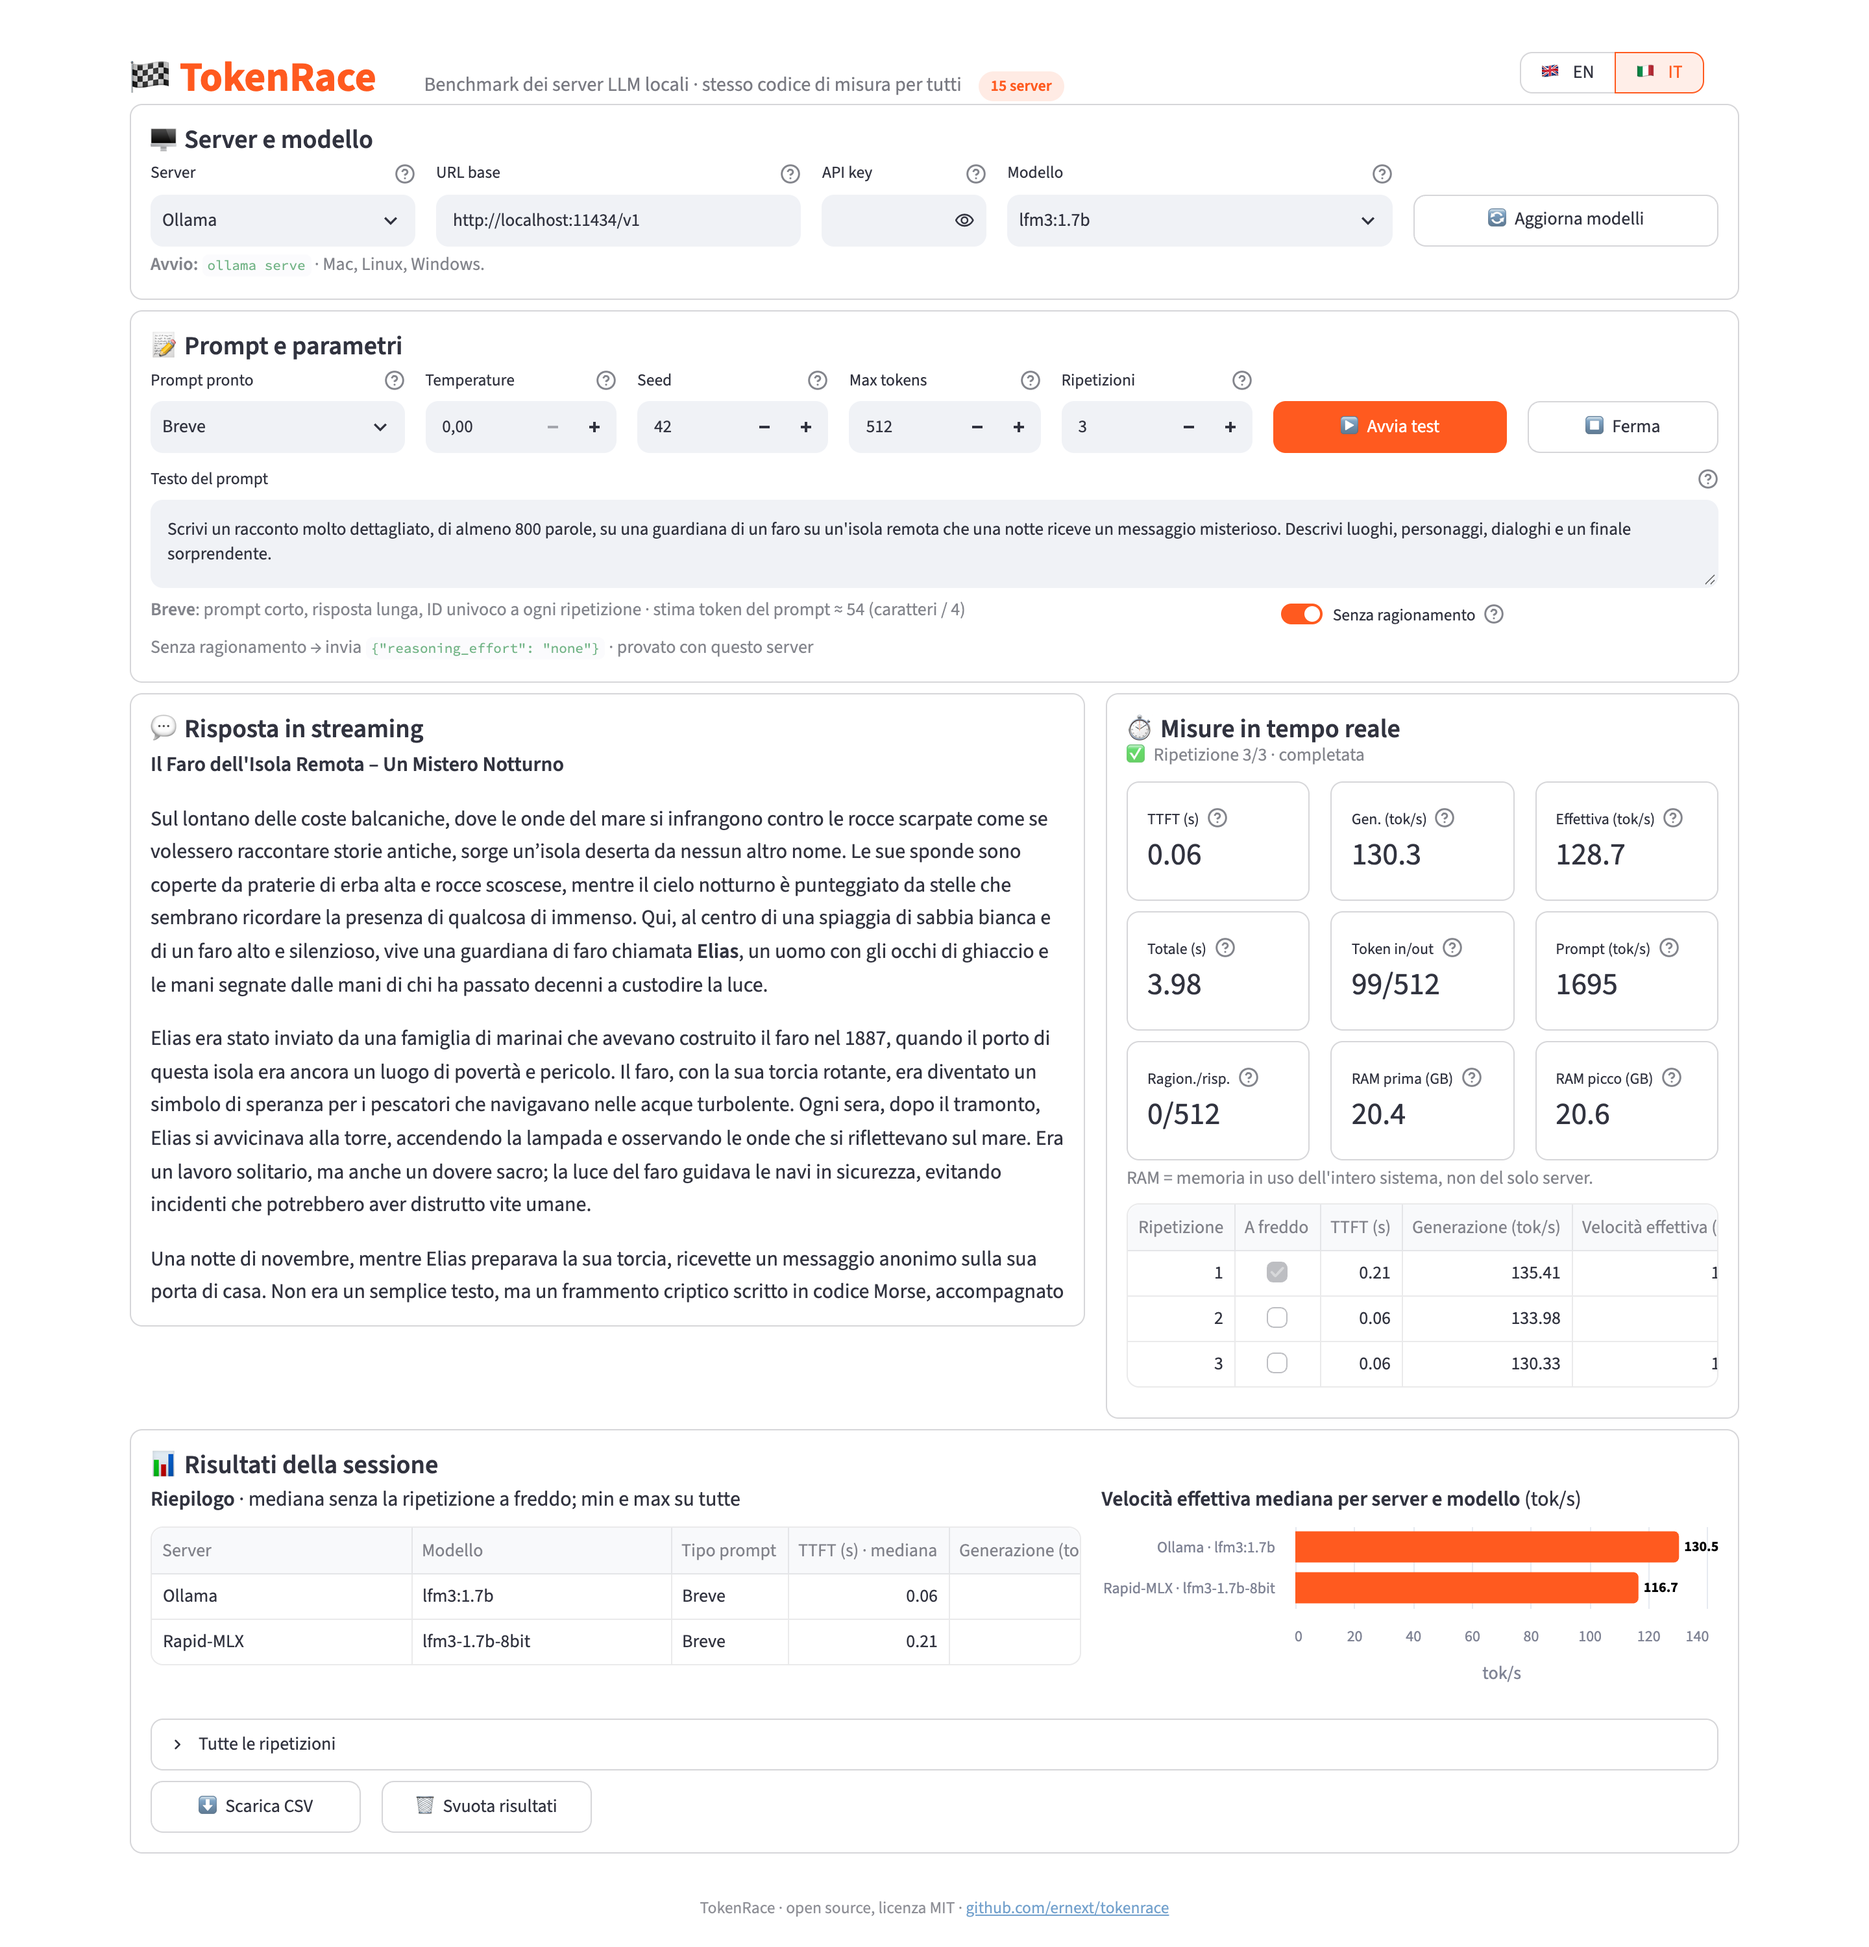
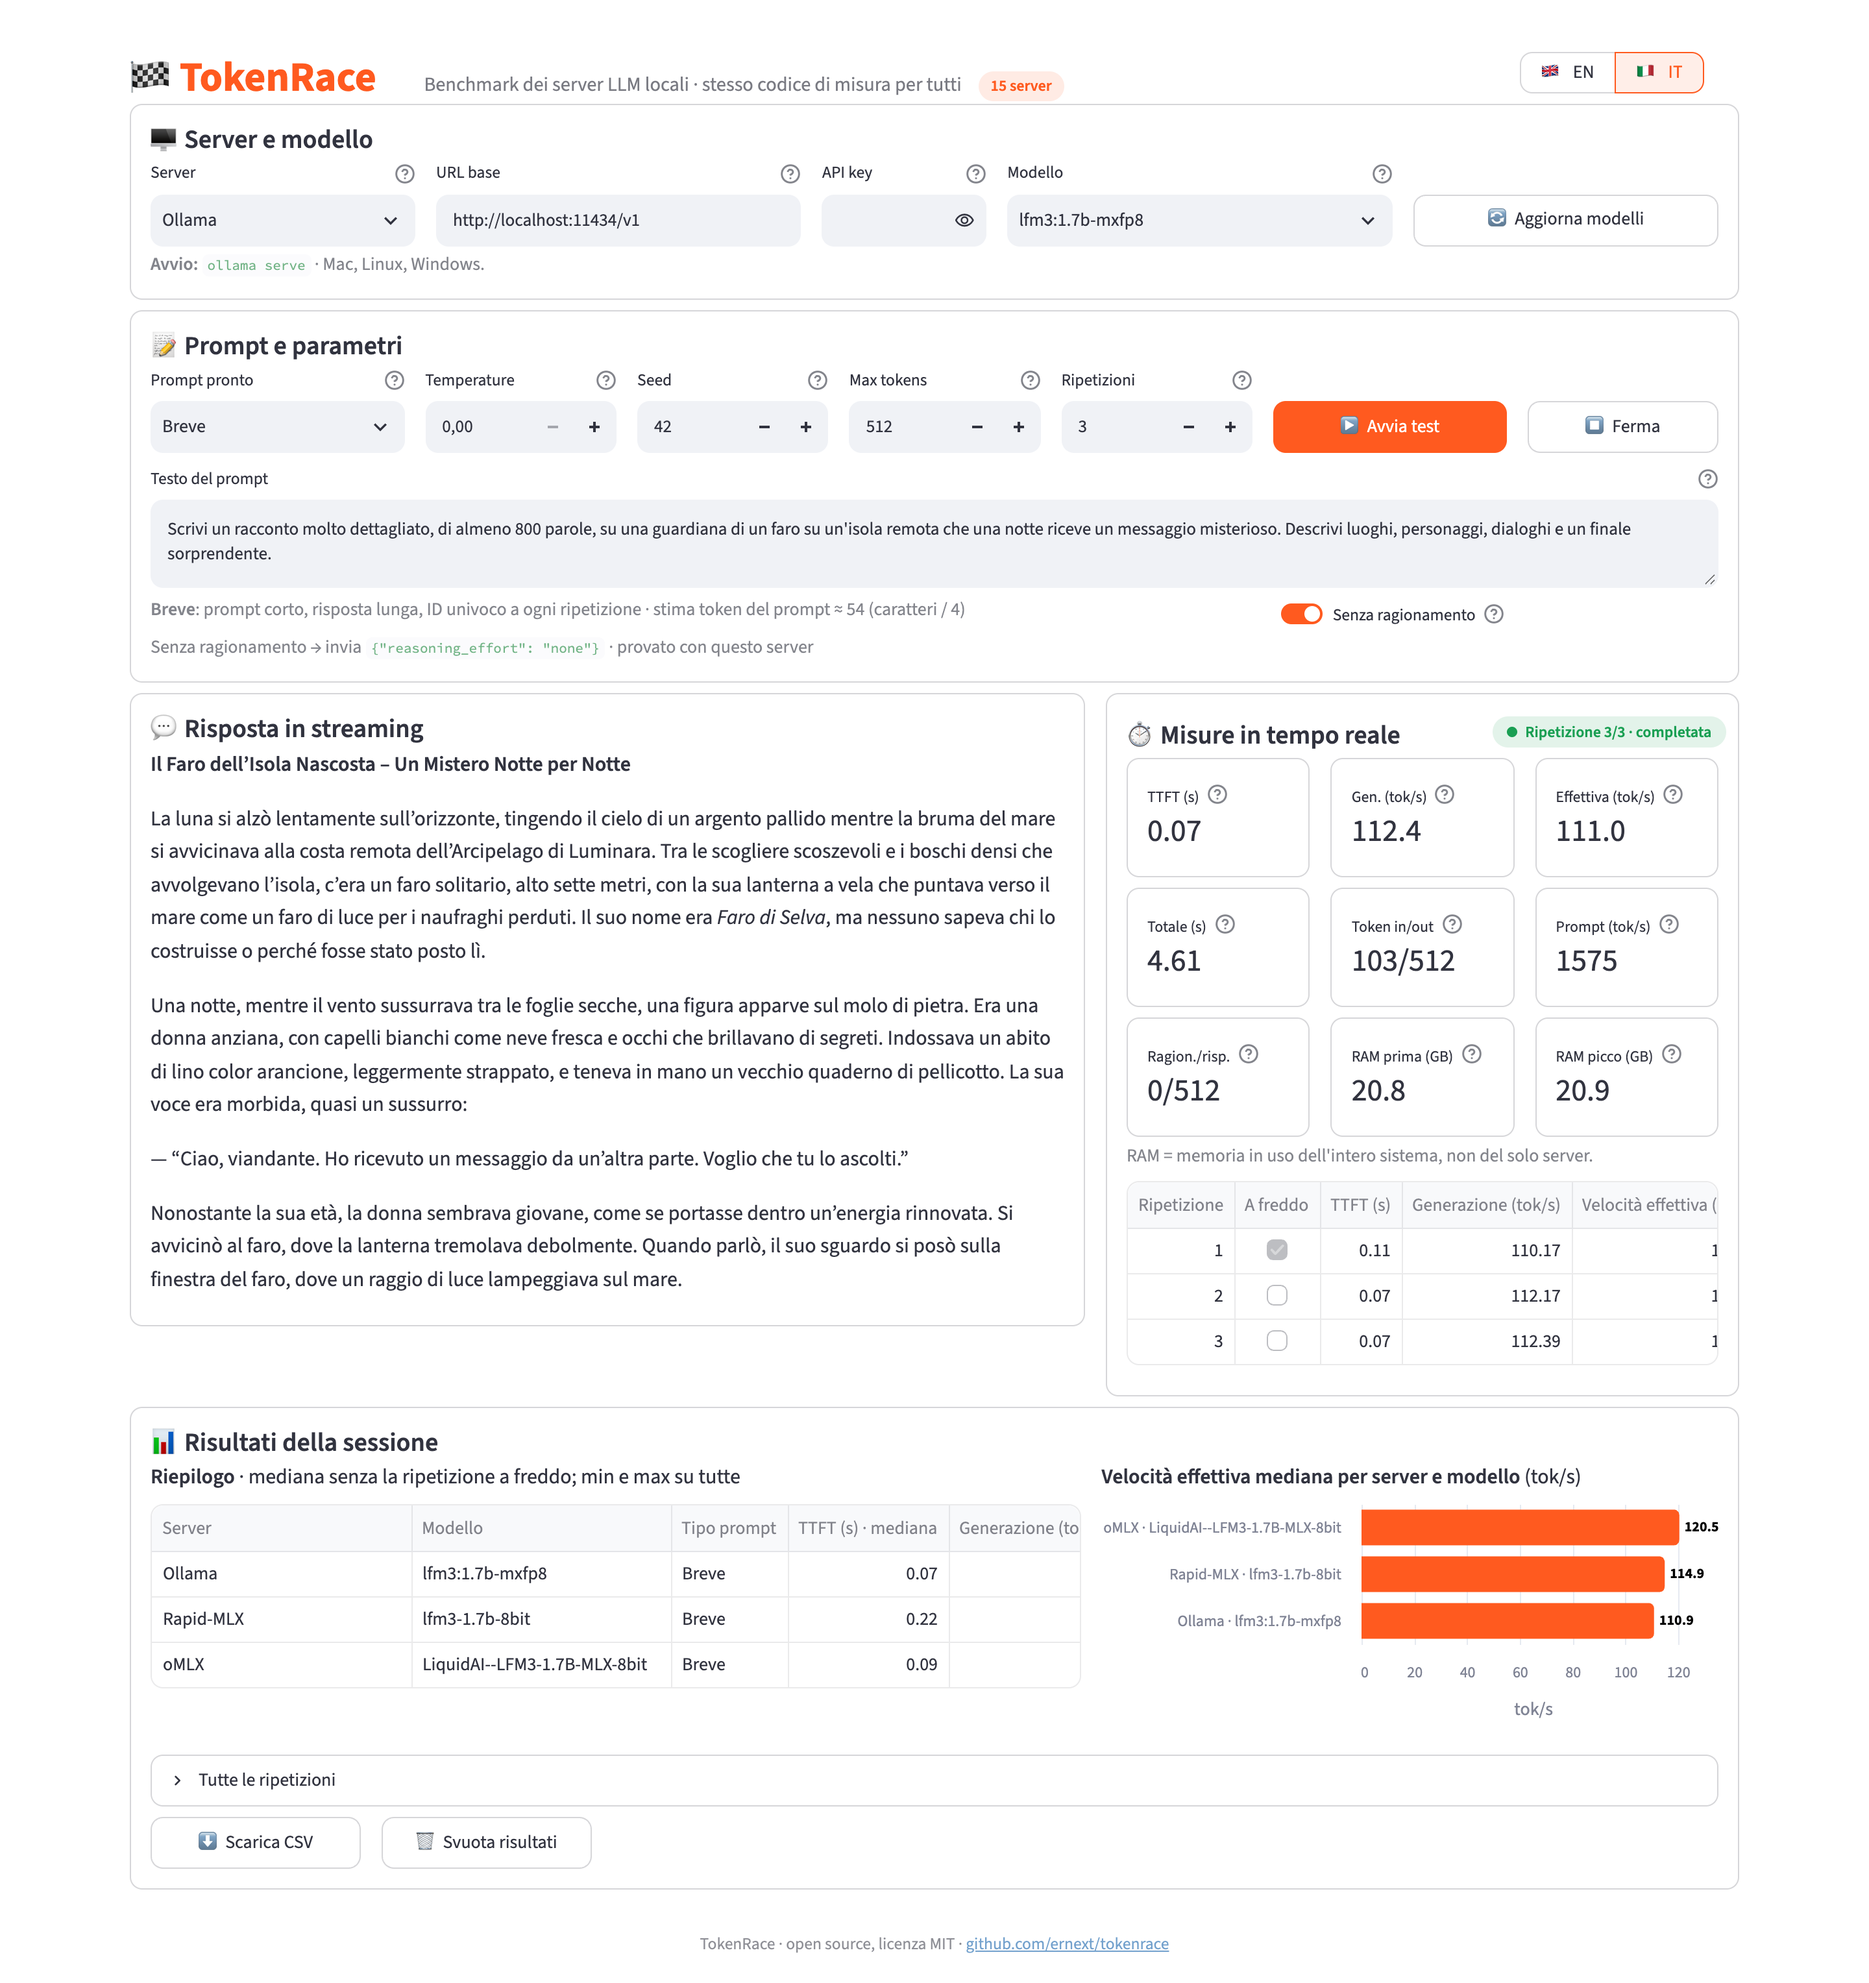
Stato della ripetizione in alto a destra, oMLX provato, screenshot con tre server
- Etichetta dello stato (in corso / completata) nell'intestazione del riquadro delle misure
- oMLX: "senza ragionamento" con chat_template_kwargs verificato
- Screenshot e didascalie: LFM3 1.7B a 8 bit su Rapid-MLX, oMLX e Ollama

diff --git a/assets/style.css b/assets/style.css
@@ -23,3 +23,14 @@ h5 {margin: 0 0 0.6rem 0 !important; padding: 0 !important;}
 
 /* Piè di pagina */
 .tr-footer {text-align: center; opacity: 0.55; font-size: 0.8rem; margin-top: 1.5rem;}
+
+/* Stato della ripetizione, in alto a destra del riquadro delle misure */
+.tr-status-wrap {text-align: right; margin-bottom: 1rem;}
+.tr-status {display: inline-flex; align-items: center; gap: 0.4rem; padding: 0.15rem 0.7rem;
+            border-radius: 999px; font-size: 0.75rem; font-weight: 600; white-space: nowrap;}
+.tr-dot {width: 0.5rem; height: 0.5rem; border-radius: 50%; background: currentColor;}
+.tr-status-running {color: var(--tr-primary);
+                    background: color-mix(in srgb, var(--tr-primary) 12%, transparent);}
+.tr-status-running .tr-dot {animation: tr-pulse 1s ease-in-out infinite;}
+.tr-status-done {color: #1a9f53; background: color-mix(in srgb, #1a9f53 12%, transparent);}
+@keyframes tr-pulse {0%, 100% {opacity: 1;} 50% {opacity: 0.25;}}

diff --git a/app.py b/app.py
@@ -45,6 +45,12 @@ def reasoning_md(t, text: str) -> str:
     return f"> 💭 *{t('label.reasoning')}:* " + text[-3000:].replace("\n", " ") + "\n\n"
 
 
+def status_badge(text: str, state: str) -> str:
+    """Etichetta dello stato della ripetizione (state: running, done)."""
+    return (f'<div class="tr-status-wrap"><span class="tr-status tr-status-{state}">'
+            f'<span class="tr-dot"></span>{text}</span></div>')
+
+
 def error_text(t, e: bench.ServerError) -> str:
     return t(f"err.{e.code}", **e.params)
 
@@ -195,7 +201,7 @@ def render_prompt_form(t, server, presets, defaults, model):
     return prompt, params, start
 
 
-def run_test(t, ctx, prompt, run_id_label, measure, resp_box, live_box, reps_box):
+def run_test(t, ctx, prompt, run_id_label, measure, resp_box, status_box, live_box, reps_box):
     """Esegue le ripetizioni aggiornando risposta e misure in tempo reale."""
     ss = st.session_state
     p = ctx["params"]
@@ -206,6 +212,8 @@ def run_test(t, ctx, prompt, run_id_label, measure, resp_box, live_box, reps_box
             text = f"[{run_id_label}: {uuid.uuid4()}]\n{prompt}"
         last_ui = [0.0]
         status = t("msg.run_status", i=rip, n=p["repetitions"]) + (t("msg.cold") if rip == 1 else "")
+        status_box.markdown(status_badge(f"{status} · {t('msg.in_progress')}", "running"),
+                            unsafe_allow_html=True)
 
         def on_update(r_txt, c_txt, live, status=status):
             now = time.perf_counter()
@@ -214,7 +222,6 @@ def run_test(t, ctx, prompt, run_id_label, measure, resp_box, live_box, reps_box
             last_ui[0] = now
             resp_box.markdown(reasoning_md(t, r_txt) + c_txt)
             with live_box.container():
-                st.caption(f"🔴 {status} · {t('msg.in_progress')}")
                 a, b = st.columns(2)
                 a.metric(t("metric.ttft"), f"{live['ttft']:.2f}", help=t("help.ttft"), border=True)
                 b.metric(t("metric.chunks"), live["chunks"], help=t("help.chunks"), border=True)
@@ -229,16 +236,18 @@ def run_test(t, ctx, prompt, run_id_label, measure, resp_box, live_box, reps_box
                                ram_interval=measure["ram_interval_s"],
                                timeout=(measure["connect_timeout_s"], measure["read_timeout_s"]))
         except bench.ServerError as e:
+            status_box.empty()
             st.error(error_text(t, e))
             break
 
         resp_box.markdown(reasoning_md(t, m["reasoning"]) + m["content"])
+        status_box.markdown(status_badge(f"{status} · {t('msg.completed')}", "done"),
+                            unsafe_allow_html=True)
         row = make_row(ctx, rip, m)
         ss.history.append(row)
         rows.append(row)
 
         with live_box.container():
-            st.caption(f"✅ {status} · {t('msg.completed')}")
             a, b, c = st.columns(3)
             a.metric(t("metric.ttft"), fmt(m["ttft"]), help=t("help.ttft"), border=True)
             b.metric(t("metric.gen"), fmt(m["tok_s_gen"], 1), help=t("help.gen"), border=True)
@@ -370,14 +379,17 @@ def main():
         st.markdown(f"##### {t('section.response')}")
         resp_box = st.container(height=ui["response_height"], border=False).empty()
     with right.container(border=True):
-        st.markdown(f"##### {t('section.live')}")
+        h1, h2 = st.columns([3, 2], vertical_alignment="center")
+        h1.markdown(f"##### {t('section.live')}")
+        status_box = h2.empty()
         live_box = st.empty()
         reps_box = st.empty()
 
     if start and model:
         ctx = {"server": server, "base_url": base_url, "api_key": api_key, "model": model,
                "preset": ss.preset, "lang": lang, "params": params}
-        run_test(t, ctx, prompt, prompt_texts["run_id"], measure, resp_box, live_box, reps_box)
+        run_test(t, ctx, prompt, prompt_texts["run_id"], measure, resp_box, status_box, live_box,
+                 reps_box)
     else:
         resp_box.caption(t("msg.response_placeholder"))
         live_box.caption(t("msg.live_placeholder"))

diff --git a/README.it.md b/README.it.md
@@ -13,9 +13,9 @@ Confronta la velocità dei server LLM locali (Ollama, LM Studio, Rapid-MLX, oMLX
 Una piccola app [Streamlit](https://streamlit.io): scegli server e modello, avvii il test e vedi in tempo reale TTFT, token al secondo, tempo totale e RAM, con riepilogo, grafico ed export CSV.
 
 <p align="center">
-  <img src="docs/screenshot-it.png" alt="TokenRace: lo stesso modello LFM3 1.7B su Rapid-MLX e Ollama, con risposta in streaming, misure e riepilogo" width="900">
+  <img src="docs/screenshot-it.png" alt="TokenRace: LFM3 1.7B a 8 bit su Rapid-MLX, oMLX e Ollama, con risposta in streaming, misure e riepilogo" width="900">
 </p>
-<p align="center"><sub>LFM3 1.7B su Rapid-MLX Desktop (8 bit) e Ollama (4 bit, nvfp4), prompt "Breve", senza ragionamento, 3 ripetizioni. Quantizzazioni diverse: è un esempio, non una classifica.</sub></p>
+<p align="center"><sub>LFM3 1.7B a 8 bit su Rapid-MLX e oMLX (stessi pesi MLX) e su Ollama (mxfp8), prompt "Breve", senza ragionamento, 3 ripetizioni su un Mac. Un singolo esempio, non una classifica.</sub></p>
 
 ## Caratteristiche
 
@@ -102,6 +102,7 @@ In Breve e Lungo ogni ripetizione inizia con un ID univoco, così la cache del p
 L'interruttore **Senza ragionamento** invia un parametro diverso a seconda del server (✅ = provato):
 - Ollama: `reasoning_effort: "none"` ✅
 - LM Studio: `reasoning_effort: "none"` più `chat_template_kwargs` ✅
+- oMLX: `chat_template_kwargs: {"enable_thinking": false}` ✅
 - text-generation-webui: `enable_thinking: false`
 - tutti gli altri (llama.cpp, MLX, vLLM, SGLang…): `chat_template_kwargs: {"enable_thinking": false}`
 

diff --git a/README.md b/README.md
@@ -13,9 +13,9 @@ Benchmark local LLM servers (Ollama, LM Studio, Rapid-MLX, oMLX, llama.cpp, vLLM
 A small [Streamlit](https://streamlit.io) app: pick a server and a model, start the test and watch TTFT, tokens per second, total time and RAM live, with a summary, a chart and CSV export.
 
 <p align="center">
-  <img src="docs/screenshot.png" alt="TokenRace: the same LFM3 1.7B model on Rapid-MLX and Ollama, with streaming response, live metrics and summary" width="900">
+  <img src="docs/screenshot.png" alt="TokenRace: LFM3 1.7B at 8-bit on Rapid-MLX, oMLX and Ollama, with streaming response, live metrics and summary" width="900">
 </p>
-<p align="center"><sub>LFM3 1.7B on Rapid-MLX Desktop (8-bit) and Ollama (4-bit, nvfp4), "Short" prompt, no reasoning, 3 runs. Different quantizations: an example, not a ranking.</sub></p>
+<p align="center"><sub>LFM3 1.7B at 8-bit on Rapid-MLX and oMLX (same MLX weights) and on Ollama (mxfp8), "Short" prompt, no reasoning, 3 runs on one Mac. A single example, not a ranking.</sub></p>
 
 ## Features
 
@@ -102,6 +102,7 @@ In Short and Long every run starts with a unique ID, so prompt caching does not 
 The **No reasoning** switch sends a different parameter depending on the server (✅ = tested):
 - Ollama: `reasoning_effort: "none"` ✅
 - LM Studio: `reasoning_effort: "none"` plus `chat_template_kwargs` ✅
+- oMLX: `chat_template_kwargs: {"enable_thinking": false}` ✅
 - text-generation-webui: `enable_thinking: false`
 - all others (llama.cpp, MLX, vLLM, SGLang…): `chat_template_kwargs: {"enable_thinking": false}`
 
